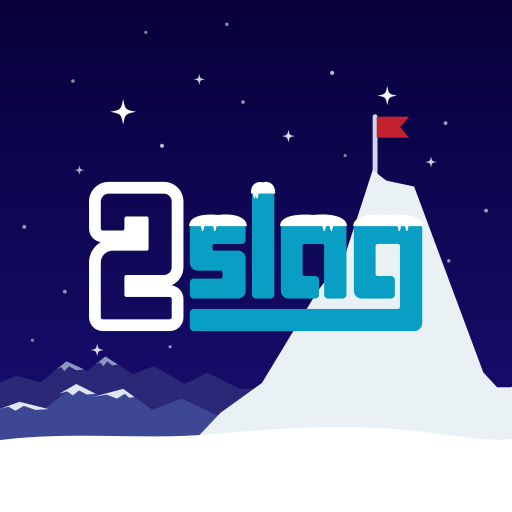
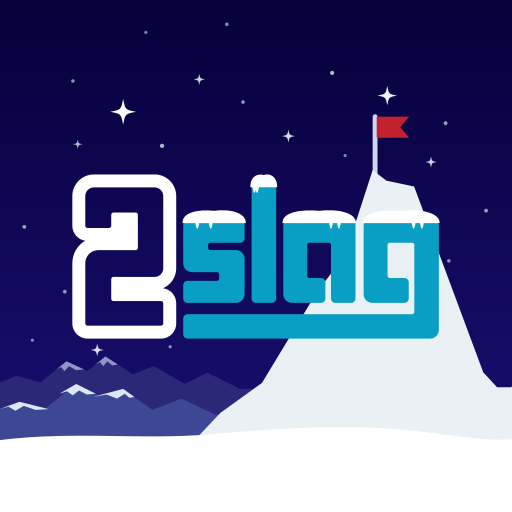
App-icoon: 2slag groter (schaal 0,60 -> 0,66)
Groter past het woordmerk niet meer in de veilige cirkel van het maskable-icoon. Een ster linksboven opgeschoven, weg van de 2. ICOON_VERSIE naar c3b zodat Android het icoon bijwerkt; ICOON (iPhone-melding) blijft c3.

Changed region(s): [[0.125, 0.3125, 0.875, 0.6875]]

diff --git a/src/lib/icoonversie.ts b/src/lib/icoonversie.ts
@@ -6,7 +6,8 @@ import { bewaard, schrijf } from './opslag'
  * werd gezet. De app kan het icoon zelf niet zien, dus we onthouden bij de eerste start met deze
  * code of de app al eerder gebruikt was (dan staat er het oude icoon) of net nieuw is.
  *
- * Nieuw icoon: ICOON hieronder én ICOON_VERSIE in vite.config.ts ophogen.
+ * Nieuw icoon: ICOON hieronder én ICOON_VERSIE in vite.config.ts ophogen. Alleen een kleine
+ * aanpassing (bijv. het logo iets groter): alleen ICOON_VERSIE, zodat iPhones geen nieuwe melding krijgen.
  */
 export const ICOON = 'c3'
 export const ICOON_SLEUTEL = 'icoon.versie'

diff --git a/vite.config.ts b/vite.config.ts
@@ -7,8 +7,9 @@ import { VitePWA } from 'vite-plugin-pwa'
 // De workflow geeft de repo-naam mee via BASE_PATH; lokaal valt hij terug op '/tweeslag-wispo/'.
 const base = process.env.BASE_PATH ?? '/tweeslag-wispo/'
 
-// Ophogen bij een nieuw app-icoon (zie manifest.icons hieronder), samen met ICOON in src/lib/icoonversie.ts
-const ICOON_VERSIE = 'c3'
+// Ophogen bij elke wijziging van het app-icoon (zie manifest.icons hieronder). ICOON in
+// src/lib/icoonversie.ts alleen ophogen als iPhone-gebruikers Wispo opnieuw moeten toevoegen.
+const ICOON_VERSIE = 'c3b'
 
 export default defineConfig({
   base,
